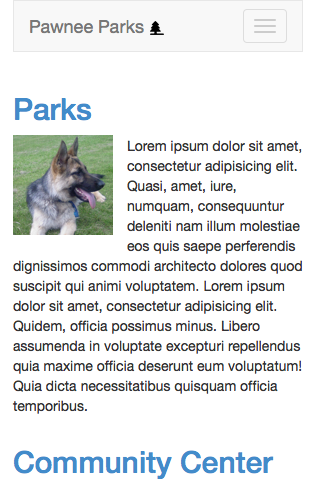
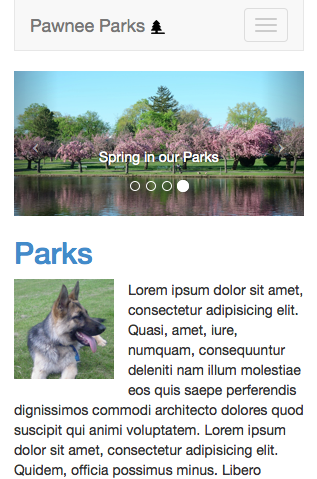
lab4. need to add another one or two optional steps still. Maybe make navbar an optional step? Feels a bit long now.

diff --git a/labs/bootstrap/carousel.html b/labs/bootstrap/carousel.html
@@ -1,0 +1,69 @@
+<!doctype html>
+<html>
+    <head>
+        <meta charset="UTF-8">
+        <link rel="stylesheet" href="../../lib/highlight/styles/zenburn.css">
+        <title>Carousel Example Code</title>
+    </head>
+    <body>
+        <pre><code>
+&lt;div id=&quot;pawnee-carousel&quot; class=&quot;carousel slide&quot;&gt;
+    &lt;!-- slide indicators --&gt;
+    &lt;ol class=&quot;carousel-indicators&quot;&gt;
+        &lt;li data-target=&quot;#pawnee-carousel&quot; data-slide-to=&quot;0&quot; class=&quot;active&quot;&gt;&lt;/li&gt;
+        &lt;li data-target=&quot;#pawnee-carousel&quot; data-slide-to=&quot;1&quot;&gt;&lt;/li&gt;
+        &lt;li data-target=&quot;#pawnee-carousel&quot; data-slide-to=&quot;2&quot;&gt;&lt;/li&gt;
+        &lt;li data-target=&quot;#pawnee-carousel&quot; data-slide-to=&quot;3&quot;&gt;&lt;/li&gt;
+    &lt;/ol&gt;
+
+    &lt;!-- slides --&gt; 
+    &lt;div class=&quot;carousel-inner&quot;&gt;
+        &lt;!-- slide --&gt;
+        &lt;div class=&quot;item active&quot;&gt;
+            &lt;img src=&quot;img/summer-park.jpg&quot; alt=&quot;Summer in the Park&quot;&gt;
+            &lt;div class=&quot;carousel-caption&quot;&gt;
+                &lt;p&gt;Summer in our Parks&lt;/p&gt;
+            &lt;/div&gt;
+        &lt;/div&gt;
+
+        &lt;!-- slide --&gt;
+        &lt;div class=&quot;item&quot;&gt;
+            &lt;img src=&quot;img/autumn-park.jpg&quot; alt=&quot;Autumn in the Park&quot;&gt;
+            &lt;div class=&quot;carousel-caption&quot;&gt;
+                &lt;p&gt;Autumn in our Parks&lt;/p&gt;
+            &lt;/div&gt;
+        &lt;/div&gt;
+
+        &lt;!-- slide --&gt;
+        &lt;div class=&quot;item&quot;&gt;
+            &lt;img src=&quot;img/winter-park.jpg&quot; alt=&quot;Winter in the Park&quot;&gt;
+            &lt;div class=&quot;carousel-caption&quot;&gt;
+                &lt;p&gt;Winter in our Parks&lt;/p&gt;
+            &lt;/div&gt;
+        &lt;/div&gt;
+
+        &lt;!-- slide --&gt;
+        &lt;div class=&quot;item&quot;&gt;
+            &lt;img src=&quot;img/spring-park.jpg&quot; alt=&quot;Spring in the Park&quot;&gt;
+            &lt;div class=&quot;carousel-caption&quot;&gt;
+                &lt;p&gt;Spring in our Parks&lt;/p&gt;
+            &lt;/div&gt;
+        &lt;/div&gt;
+    &lt;/div&gt; &lt;!-- .slides --&gt;
+
+    &lt;!-- left-right controls --&gt;
+    &lt;a class=&quot;left carousel-control&quot; href=&quot;#pawnee-carousel&quot; data-slide=&quot;prev&quot;&gt;
+        &lt;span class=&quot;icon-prev&quot;&gt;&lt;/span&gt;
+    &lt;/a&gt;
+    &lt;a class=&quot;right carousel-control&quot; href=&quot;#pawnee-carousel&quot; data-slide=&quot;next&quot;&gt;
+        &lt;span class=&quot;icon-next&quot;&gt;&lt;/span&gt;
+    &lt;/a&gt;
+&lt;/div&gt;            
+        </code></pre>
+
+        <!-- for highlight.js -->
+        <script src="../../lib/highlight/highlight.pack.js"></script>
+        <script>hljs.initHighlightingOnLoad();</script>
+
+    </body>
+</html>
